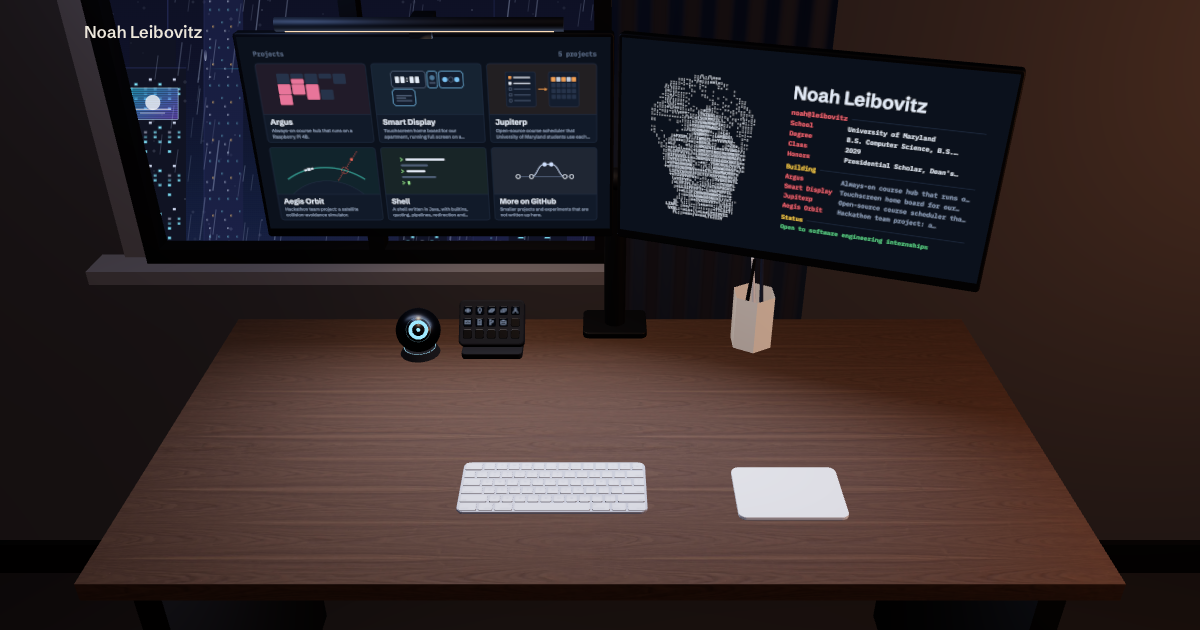
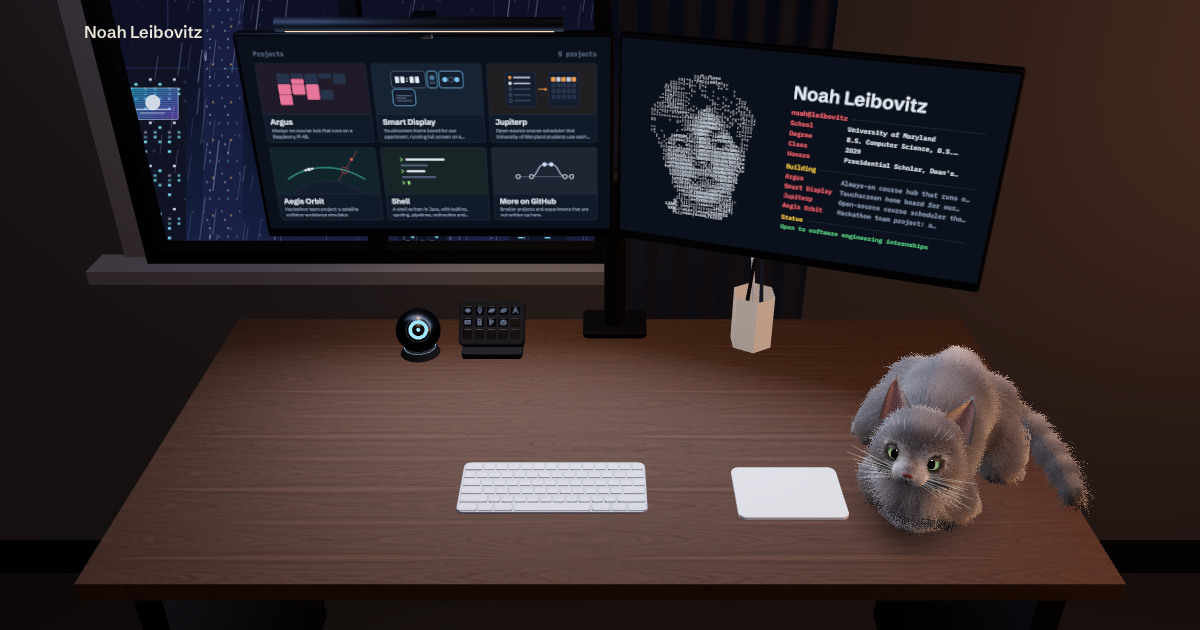
Record the merge of the cat, and re-capture the link-preview image

Changed region(s): [[0.7092, 0.5429, 0.925, 0.8746]]

diff --git a/CLAUDE.md b/CLAUDE.md
@@ -26,7 +26,7 @@ Priorities, in order: (1) any project is readable within two clicks, on a phone 
 - **Contact is links only: merged into `main` and published 2026-11-18** (Noah: "Publish it"). The note paper is gone; see the 2026-11-18 decision below and `docs/features/contact-page.md`. The branch `contact-links-only` still exists locally and is fully contained in `main`. Live site checked after the deploy, with screenshots at both sizes: every route 200, an unknown address 404, Contact shows the four rows and no form, nothing overflows on a phone, an empty console. (The in-app browser pane can freeze CSS animations at phone size, which leaves a page looking dim; check phone screenshots with Playwright instead.)
 - **Smooth in Safari's engine: merged into `main` and published 2026-11-18** (Noah: "Publish it"). Noah filmed frame drops in DuckDuckGo; the cause and the fix are in the 2026-11-18 decisions below. The branch `safari-smooth` still exists locally and is fully contained in `main`. Live site checked after the deploy in Chrome: every route 200, a parked project and an unknown address 404, no filter in the city, the hand cursor on the canvas only, the left monitor opens Projects and Esc closes it, no frame over 17 ms, an empty console at both sizes. The live site was not measured in Safari or DuckDuckGo (`npm run frames` measures the local build, which is the same code); the before and after numbers below are from the local build.
 - **The weather rests after a page has arrived: merged into `main` and published 2026-11-18** (Noah: "Yes, do it" to removing the last hitch when a page opens, then "Publish it"). See the last 2026-11-18 decisions below. The branch `weather-rest-later` still exists locally and is fully contained in `main`. Live site checked after the deploy in Chrome: every route 200, a parked project and an unknown address 404; opening Projects from the desk, the weather is still running as the page arrives and rests 1.5 s later; back on the desk it runs again at once; a page loaded directly rests at once; beside a project page it keeps going; behind About no label and no hand cursor; no frame over 17 ms; an empty console. Not measured on the live site in Safari or DuckDuckGo (`npm run frames` measures the local build, which is the same code).
-- **A cat on the desk: built on the branch `feature/desk-cat`, not merged, not published** (2026-11-21). Noah turned down two found models ("create your own") and asked for real-feeling fur, smooth motion and five emotes (purr, clean, loaf, roll over, stare). Everything about it is in `docs/features/desk-cat.md`: read that before touching `src/scene/cat/`. Noah has not seen it yet; the likeness, its place and how emotes are asked for are his to confirm.
+- **A cat on the desk: merged into `main` 2026-11-21 (Noah: "Merge it"), not published.** `main` is ahead of the live site; nothing goes live until Noah says to publish. Noah turned down two found models ("create your own"), so it is made in code. After seeing it he ruled: no drawn lines or stripes on it, and it only lies in the loaf and breathes; the five emotes he first asked for (purr, clean, loaf, roll over, stare) are built and tested but switched off. Everything about it is in `docs/features/desk-cat.md`: read that before touching `src/scene/cat/`. The branch `feature/desk-cat` still exists locally and is fully contained in `main`. Checked on `main` after the merge: 174 unit tests, and all 353 browser checks against the production build. The link-preview image was re-captured with the cat in it.
 - Stop at the end of each phase, show screenshots at 1440×900 and 390×844, and wait.
 
 ## Stack
@@ -222,6 +222,6 @@ assets-src/      keyboard.glb, textures/                — git-ignored
 
 Every story is a draft for Noah to read. Aegis Orbit: role wording; teammates and who built what; any result at Technica; whether the README's figures belong; which parts of the sandbox HUD were his; OK to use the two screenshots. Argus: OK to use the two demo-data screenshots; order of the steps; whether the FlowSavvy hand-off is described correctly. Jupiterp: a usage figure, if the maintainers have one. Smart Display: whether the tap-to-light chain is right for the board; whether to name the roommates. Shell: whether each replayed output matches what the shell prints. MID: what it does; whether to link its public repository.
 
-The cat (branch `feature/desk-cat`): whether it looks like his cat (coat, face markings, eye color, size); its place on the desk; whether emotes should also be on the Stream Deck's dark keys; whether it should ever purr aloud.
+The cat: whether it now looks enough like his cat (coat, face, eye color, size); its place on the desk; whether it should keep blinking (he asked for "only breathing"; the blink was kept as a judgment call).
 
 See `npm run todos` for content gaps (some roles, images, "Outside of code", MID details). Beyond those: whether to keep the cropped full-size keyboard model or supply a compact one, an optional `assets-src/pencup.jpg` pattern for the pen cup, and a frame-rate check on a real phone (more pressing now that the cat is drawn in half a million triangles).

diff --git a/docs/features/desk-cat.md b/docs/features/desk-cat.md
@@ -1,6 +1,6 @@
 # A cat on the desk
 
-Branch: `feature/desk-cat` (from `main`, 2026-11-20).
+Branch: `feature/desk-cat` (from `main`, 2026-11-20). Merged into `main` 2026-11-21 (Noah: "Merge it"); not published.
 
 Noah sent a photo of his cat, a grey tabby Siberian, and asked for it to live on the site "as a sentient creature" so the site feels "less stale and more representative of who I am". Two found models were shown and turned down ("I don't like either. Instead create your own"). He asked for a smooth cat, a coat that "should feel like actual fur", smooth movement, and five emotes: purr ("where it shakes a little"), clean, loaf, roll over, stare ("feels as though it stares at the user").
 
